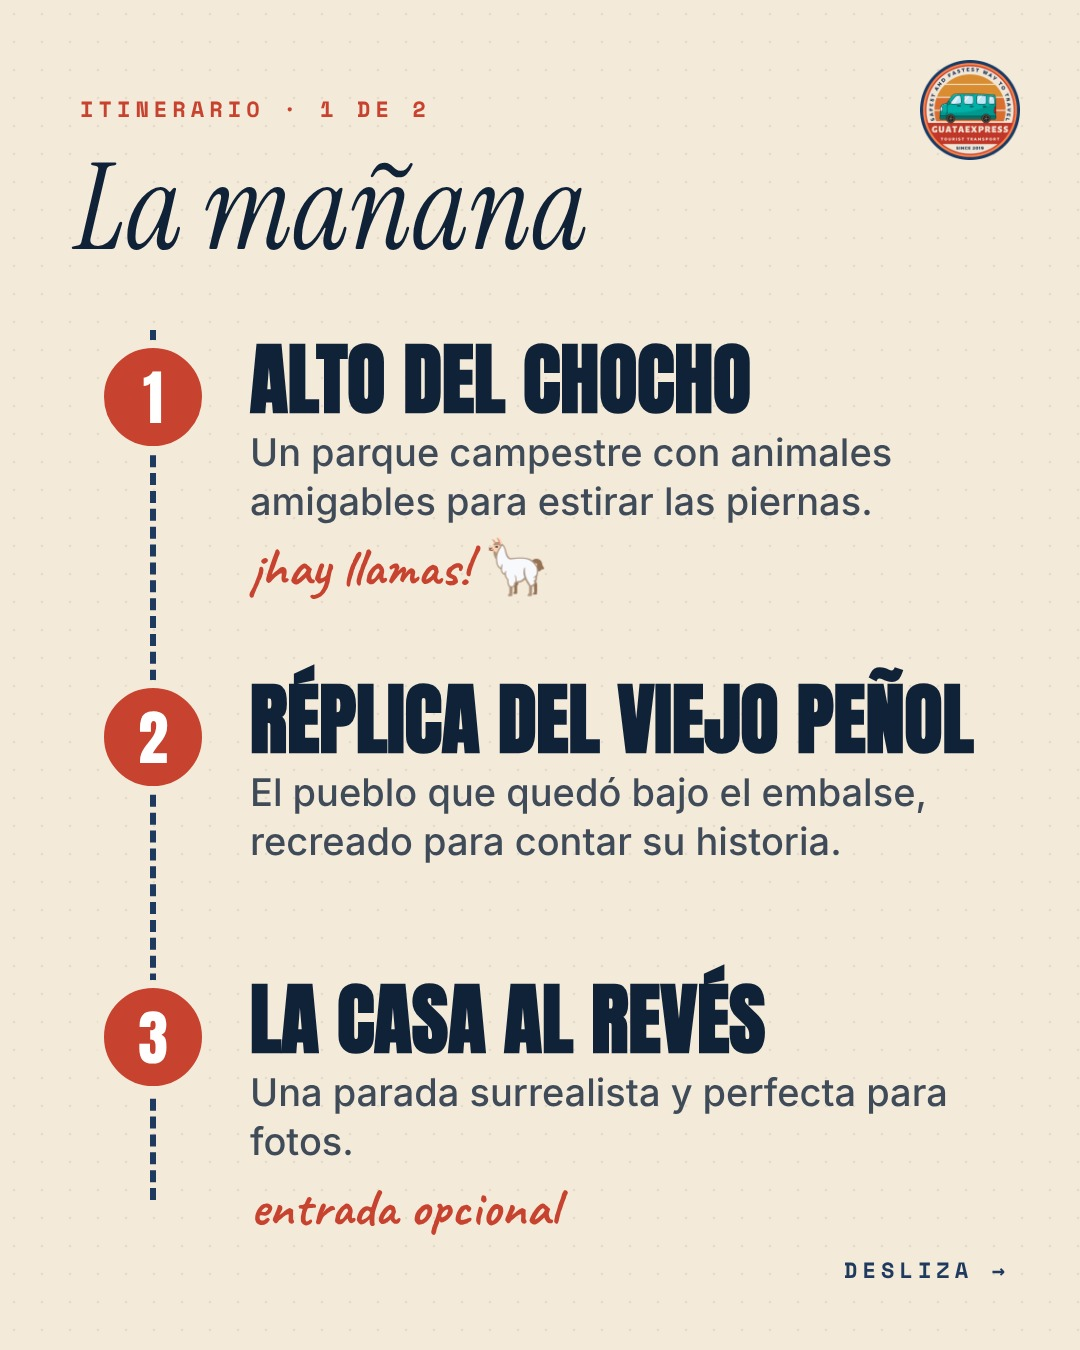
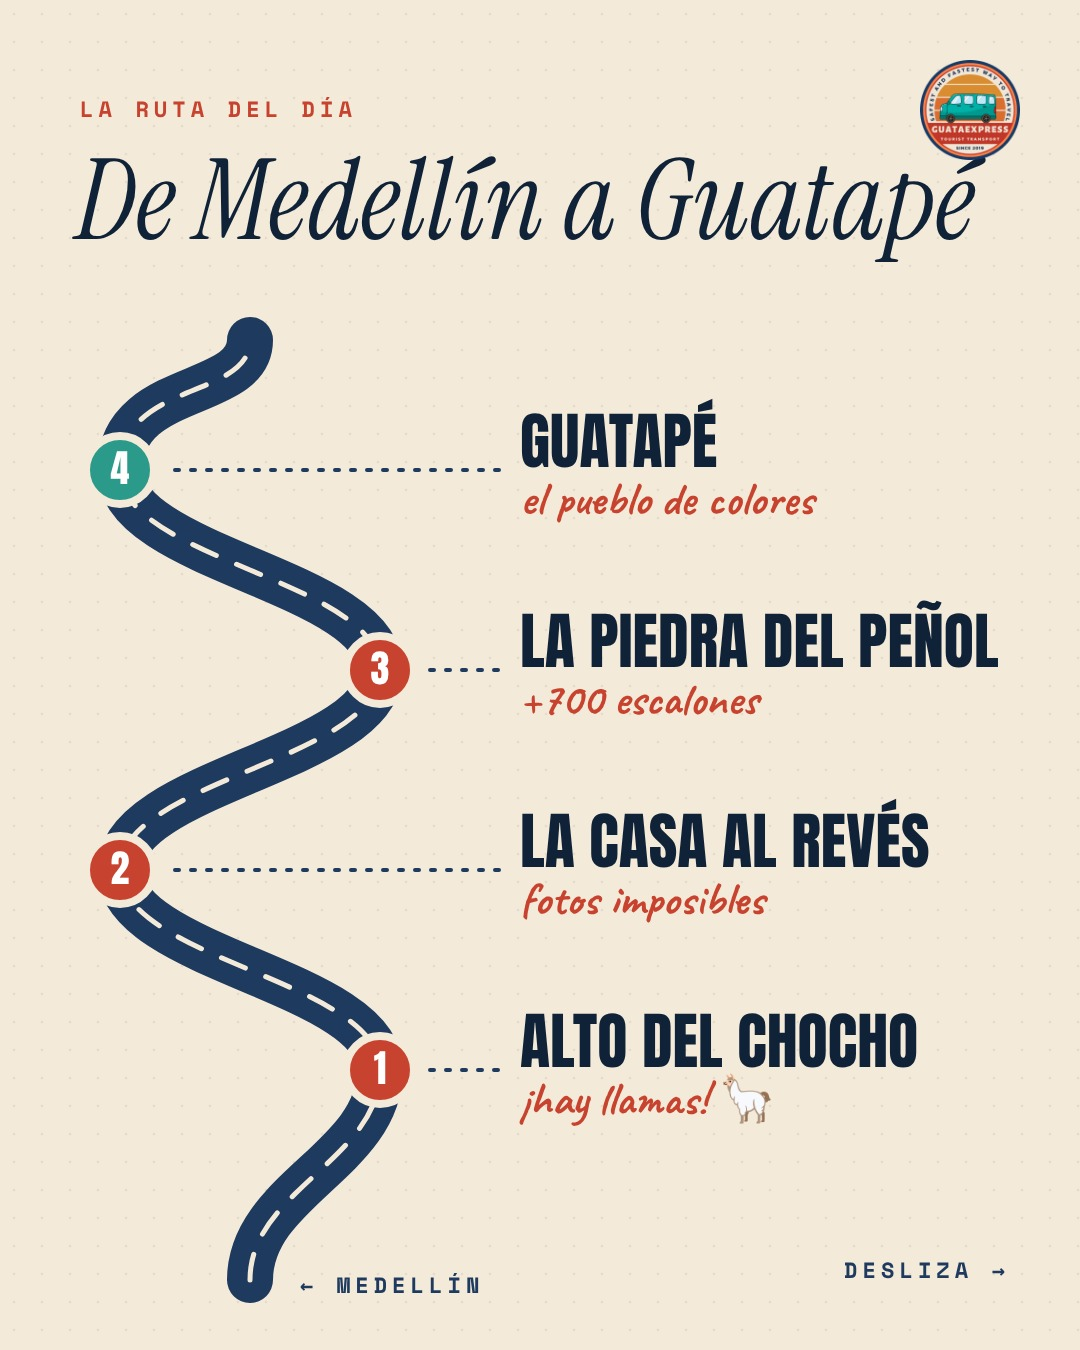
Rediseñar el post del tour privado con 4 paradas (sin la réplica del Viejo Peñol)
Claude-Session: https://claude.ai/code/session_01LZ9SaBmjmVr4tj46LR92FB

Changed region(s): [[0.0611, 0.2178, 0.9167, 0.9644], [0.0611, 0.0622, 0.9167, 0.1867], [0.275, 0.0622, 0.3667, 0.0933]]

diff --git a/semanas/2026-11-16/lunes.html b/semanas/2026-11-16/lunes.html
@@ -1,38 +1,59 @@
 <!doctype html><html><head><meta charset="utf-8"><link rel="stylesheet" href="base.css"><style>
 .paper{background:var(--cream);background-image:radial-gradient(rgba(20,36,58,.07) 1.5px,transparent 1.6px);background-size:28px 28px}
-.line{position:absolute;left:150px;top:330px;bottom:150px;border-left:6px dashed var(--navy)}
-.stop{position:absolute;left:96px;right:70px;display:flex;gap:40px;align-items:flex-start}
-.stop .n{flex:none;width:114px;height:114px;border-radius:50%;background:var(--red);color:#fff;font-family:Anton;font-size:60px;display:grid;place-items:center;border:8px solid var(--cream)}
-.stop h3{font-family:Anton;text-transform:uppercase;font-size:78px;line-height:1;color:var(--navy2)}
-.stop p{font-size:38px;line-height:1.3;color:var(--ink);opacity:.8;margin-top:10px;font-weight:500}
-.stop .h{font-family:Caveat;font-weight:700;font-size:54px;color:var(--red);margin-top:6px}
+.win{position:absolute;left:70px;right:70px;bottom:70px;height:510px;border-radius:255px 255px 30px 30px;background-size:cover;background-position:center 62%;border:10px solid var(--cream)}
+.num{font-family:Anton;font-size:190px;line-height:.82;color:var(--cream)}
+.row{display:flex;align-items:flex-end;gap:26px}
+.row span{font-family:Anton;text-transform:uppercase;font-size:96px;line-height:.9;color:var(--navy2);padding-bottom:8px}
+.pin{position:absolute;display:flex;align-items:center;gap:20px}
+.pin b{flex:none;width:92px;height:92px;border-radius:50% 50% 50% 6px;rotate:-45deg;background:var(--red);display:grid;place-items:center}
+.pin b i{rotate:45deg;font-family:Anton;font-style:normal;color:#fff;font-size:46px}
+.pin div{font-family:Anton;text-transform:uppercase;font-size:62px;line-height:1;color:var(--navy2)}
+.pin small{display:block;font-family:Caveat;font-weight:700;text-transform:none;font-size:46px;color:var(--red);margin-top:4px}
+.stamp{position:absolute;width:440px;height:440px;border-radius:50%;display:grid;place-items:center;text-align:center;padding:50px}
+.stamp::before{content:"";position:absolute;inset:14px;border-radius:50%;border:4px dashed currentColor;opacity:.75}
+.stamp .k{font-family:'Space Mono';font-weight:700;font-size:20px;letter-spacing:4px}
+.stamp h3{font-family:Anton;text-transform:uppercase;font-size:60px;line-height:.95;margin:10px 0}
+.stamp p{font-size:27px;line-height:1.25;font-weight:600}
 </style></head><body>
-<section class="s" id="s1"><div class="bg" style="background-image:url(../../fotos-nuevas/casa-al-reves-clientes.jpg);background-position:center 80%"></div>
-<div class="abs" style="inset:0;background:linear-gradient(180deg,rgba(15,34,56,.82) 0%,rgba(15,34,56,.25) 38%,rgba(15,34,56,0) 55%,rgba(15,34,56,.55) 100%)"></div>
+<section class="s" id="s1" style="background:var(--orange)">
 <img class="logo" src="../../logo/logo-circular.png" style="top:60px;right:60px">
-<div class="abs mono" style="top:92px;left:70px;color:var(--sun)">Tour privado · desde Medellín</div>
-<div class="abs ant" style="top:150px;left:66px;color:#fff;font-size:190px">Un día.<br><span style="color:var(--sun)">5 paradas.</span></div>
-<div class="abs hand" style="left:70px;bottom:110px;color:#fff;font-size:70px;rotate:-4deg;text-shadow:0 2px 14px #0008">sí, la casa está al revés</div>
-<div class="swipe mono" style="color:#fff">Desliza →</div><div class="zocalo"><i style="background:#c8432f"></i><i style="background:#e4844a"></i><i style="background:#f2b541"></i><i style="background:#2b9a8a"></i><i style="background:#1e3a5f"></i><i style="background:#c8432f"></i><i style="background:#e4844a"></i><i style="background:#f2b541"></i><i style="background:#2b9a8a"></i></div></section>
+<div class="abs mono" style="top:86px;left:70px;color:var(--navy2)">Tour privado · desde Medellín</div>
+<div class="abs" style="top:140px;left:66px">
+<div class="row"><div class="num">4</div><span>paradas.</span></div>
+<div class="row" style="margin-top:6px"><div class="num">1</div><span>día.</span></div>
+<div class="row" style="margin-top:6px"><div class="num">0</div><span>prisas.</span></div></div>
+<div class="win" style="background-image:url(../../fotos-nuevas/letras-guatape-penol.jpg)"></div>
+<div class="swipe mono" style="top:690px;bottom:auto;right:70px;color:var(--navy2)">Desliza →</div></section>
 <section class="s paper" id="s2"><img class="logo" src="../../logo/logo-circular.png" style="top:60px;right:60px">
-<div class="abs mono" style="top:92px;left:80px;color:var(--red)">Itinerario · 1 de 2</div>
-<div class="abs ser" style="top:130px;left:76px;font-size:120px;color:var(--navy2)">La mañana</div><div class="line"></div>
-<div class="stop" style="top:340px"><div class="n">1</div><div><h3>Alto del Chocho</h3><p>Un parque campestre con animales amigables para estirar las piernas.</p><div class="h">¡hay llamas! 🦙</div></div></div>
-<div class="stop" style="top:680px"><div class="n">2</div><div><h3>Réplica del Viejo Peñol</h3><p>El pueblo que quedó bajo el embalse, recreado para contar su historia.</p></div></div>
-<div class="stop" style="top:980px"><div class="n">3</div><div><h3>La Casa al Revés</h3><p>Una parada surrealista y perfecta para fotos.</p><div class="h">entrada opcional</div></div></div>
+<div class="abs mono" style="top:92px;left:80px;color:var(--red)">La ruta del día</div>
+<div class="abs ser" style="top:128px;left:76px;font-size:112px;color:var(--navy2)">De Medellín a Guatapé</div>
+<svg class="abs" style="inset:0" width="1080" height="1350" viewBox="0 0 1080 1350">
+<path d="M250 1280 C 250 1190, 380 1160, 380 1070 S 120 960, 120 870 S 380 760, 380 670 S 120 560, 120 470 S 250 400, 250 340" fill="none" stroke="#1e3a5f" stroke-width="46" stroke-linecap="round"/>
+<path d="M250 1280 C 250 1190, 380 1160, 380 1070 S 120 960, 120 870 S 380 760, 380 670 S 120 560, 120 470 S 250 400, 250 340" fill="none" stroke="#f4ead9" stroke-width="5" stroke-dasharray="26 22" stroke-linecap="round"/>
+<g stroke="#1e3a5f" stroke-width="4" stroke-dasharray="4 12" stroke-linecap="round"><path d="M430 1070 H500"/><path d="M175 870 H500"/><path d="M430 670 H500"/><path d="M175 470 H500"/></g>
+<g fill="#c8432f" stroke="#f4ead9" stroke-width="8"><circle cx="380" cy="1070" r="34"/><circle cx="120" cy="870" r="34"/><circle cx="380" cy="670" r="34"/><circle cx="120" cy="470" r="34" fill="#2b9a8a"/></g>
+<g fill="#fff" font-family="Anton" font-size="38" text-anchor="middle"><text x="380" y="1084">1</text><text x="120" y="884">2</text><text x="380" y="684">3</text><text x="120" y="484">4</text></g>
+</svg>
+<div class="abs mono" style="left:300px;top:1268px;color:var(--navy)">← Medellín</div>
+<div class="pin" style="left:520px;top:1010px"><div>Alto del Chocho<small>¡hay llamas! 🦙</small></div></div>
+<div class="pin" style="left:520px;top:810px"><div>La Casa al Revés<small>fotos imposibles</small></div></div>
+<div class="pin" style="left:520px;top:610px"><div>La Piedra del Peñol<small>+700 escalones</small></div></div>
+<div class="pin" style="left:520px;top:410px"><div>Guatapé<small>el pueblo de colores</small></div></div>
 <div class="swipe mono" style="color:var(--navy)">Desliza →</div></section>
 <section class="s paper" id="s3"><img class="logo" src="../../logo/logo-circular.png" style="top:60px;right:60px">
-<div class="abs mono" style="top:92px;left:80px;color:var(--red)">Itinerario · 2 de 2</div>
-<div class="abs ser" style="top:130px;left:76px;font-size:120px;color:var(--navy2)">La tarde</div><div class="line" style="bottom:330px"></div>
-<div class="stop" style="top:340px"><div class="n">4</div><div><h3>La Piedra del Peñol</h3><p>Más de 700 escalones hasta una de las mejores vistas de Colombia.</p><div class="h">entrada opcional</div></div></div>
-<div class="stop" style="top:720px"><div class="n">5</div><div><h3>Guatapé</h3><p>Tiempo libre en el pueblo más colorido: zócalos, artesanías y almuerzo junto al lago.</p></div></div>
-<div class="abs" style="left:80px;right:80px;bottom:110px;background:var(--navy);color:#fff;border-radius:28px;padding:34px 40px;font-size:34px;font-weight:600;line-height:1.3">⏰ Tú eliges la hora de salida y de regreso. Sin prisas y sin desconocidos.</div>
-<div class="swipe mono" style="color:var(--navy);bottom:50px">Desliza →</div></section>
-<section class="s" id="s4" style="background:var(--navy2);color:#fff"><div class="bg" style="background-image:url(../../fotos-nuevas/letras-guatape-penol.jpg);background-position:center 65%;bottom:auto;height:640px"></div>
-<div class="abs" style="left:0;right:0;top:340px;height:300px;background:linear-gradient(180deg,rgba(15,34,56,0),var(--navy2))"></div>
+<div class="abs mono" style="top:92px;left:80px;color:var(--red)">Sellos del viaje</div>
+<div class="abs ser" style="top:128px;left:76px;font-size:112px;color:var(--navy2)">Qué vas a vivir</div>
+<div class="stamp" style="left:70px;top:300px;color:var(--red);rotate:-6deg"><div><div class="k">PARADA 01</div><h3>Alto del Chocho</h3><p>Un parque campestre con animales amigables.</p></div></div>
+<div class="stamp" style="left:570px;top:340px;color:var(--teal);rotate:5deg"><div><div class="k">PARADA 02</div><h3>La Casa al Revés</h3><p>Surrealista y perfecta para fotos. Entrada opcional.</p></div></div>
+<div class="stamp" style="left:90px;top:790px;color:var(--navy);rotate:4deg"><div><div class="k">PARADA 03</div><h3>La Piedra del Peñol</h3><p>Una de las mejores vistas de Colombia. Entrada opcional.</p></div></div>
+<div class="stamp" style="left:560px;top:830px;color:#b9651f;rotate:-5deg"><div><div class="k">PARADA 04</div><h3>Guatapé</h3><p>Tiempo libre: zócalos, artesanías y almuerzo junto al lago.</p></div></div>
+<div class="swipe mono" style="color:var(--navy);bottom:40px">Desliza →</div></section>
+<section class="s" id="s4" style="background:var(--navy2);color:#fff"><div class="bg" style="background-image:url(../../fotos-nuevas/casa-al-reves-clientes.jpg);background-position:center 72%;bottom:auto;height:590px"></div>
+<div class="abs" style="left:0;right:0;top:330px;height:262px;background:linear-gradient(180deg,rgba(15,34,56,0),var(--navy2))"></div>
 <img class="logo" src="../../logo/logo-circular.png" style="top:60px;right:60px">
-<div class="abs" style="left:80px;right:80px;top:650px"><div class="mono" style="color:var(--sun)">100% privado · puerta a puerta</div>
-<div class="ant" style="font-size:132px;margin-top:16px">Guatapé,<br><span style="color:var(--sun)">a tu manera.</span></div>
-<div style="display:flex;flex-wrap:wrap;gap:14px;margin-top:36px;font-size:30px;font-weight:600"><span style="border:2px solid #fff5;border-radius:999px;padding:12px 24px">SUV privada</span><span style="border:2px solid #fff5;border-radius:999px;padding:12px 24px">Conductor bilingüe</span><span style="border:2px solid #fff5;border-radius:999px;padding:12px 24px">Snacks</span><span style="border:2px solid #fff5;border-radius:999px;padding:12px 24px">Seguro de viaje</span></div>
-<div class="wa" style="margin-top:44px"><svg viewBox="0 0 24 24"><path d="M12 2a10 10 0 00-8.6 15.1L2 22l5-1.3A10 10 0 1012 2zm0 18.2a8.2 8.2 0 01-4.2-1.2l-.3-.2-3 .8.8-2.9-.2-.3A8.2 8.2 0 1112 20.2zm4.5-6.1c-.2-.1-1.5-.7-1.7-.8s-.4-.1-.6.1-.7.8-.8 1-.3.2-.5.1a6.7 6.7 0 01-3.3-2.9c-.3-.4.3-.4.7-1.3.1-.2 0-.3 0-.4l-.8-1.8c-.2-.5-.4-.4-.6-.4h-.5a1 1 0 00-.7.3 3 3 0 00-.9 2.2 5.2 5.2 0 001.1 2.7 11.8 11.8 0 004.5 4c1.7.7 2.3.8 3.2.6a2.7 2.7 0 001.8-1.2 2.2 2.2 0 00.1-1.2c-.1-.1-.2-.2-.5-.3z"/></svg> Cotiza tu tour</div></div><div class="zocalo"><i style="background:#c8432f"></i><i style="background:#e4844a"></i><i style="background:#f2b541"></i><i style="background:#2b9a8a"></i><i style="background:#1e3a5f"></i><i style="background:#c8432f"></i><i style="background:#e4844a"></i><i style="background:#f2b541"></i><i style="background:#2b9a8a"></i></div></section>
+<div class="abs" style="left:80px;right:80px;top:600px"><div class="mono" style="color:var(--sun)">100% privado · tú eliges el horario</div>
+<div class="ant" style="font-size:124px;margin-top:18px">Guatapé,<br><span style="color:var(--sun)">a tu manera.</span></div>
+<div style="display:flex;flex-wrap:wrap;gap:14px;margin-top:34px;font-size:30px;font-weight:600"><span style="border:2px solid #fff5;border-radius:999px;padding:12px 24px">SUV privada</span><span style="border:2px solid #fff5;border-radius:999px;padding:12px 24px">Conductor bilingüe</span><span style="border:2px solid #fff5;border-radius:999px;padding:12px 24px">Snacks</span><span style="border:2px solid #fff5;border-radius:999px;padding:12px 24px">Seguro de viaje</span></div>
+<div class="wa" style="margin-top:40px"><svg viewBox="0 0 24 24"><path d="M12 2a10 10 0 00-8.6 15.1L2 22l5-1.3A10 10 0 1012 2zm0 18.2a8.2 8.2 0 01-4.2-1.2l-.3-.2-3 .8.8-2.9-.2-.3A8.2 8.2 0 1112 20.2zm4.5-6.1c-.2-.1-1.5-.7-1.7-.8s-.4-.1-.6.1-.7.8-.8 1-.3.2-.5.1a6.7 6.7 0 01-3.3-2.9c-.3-.4.3-.4.7-1.3.1-.2 0-.3 0-.4l-.8-1.8c-.2-.5-.4-.4-.6-.4h-.5a1 1 0 00-.7.3 3 3 0 00-.9 2.2 5.2 5.2 0 001.1 2.7 11.8 11.8 0 004.5 4c1.7.7 2.3.8 3.2.6a2.7 2.7 0 001.8-1.2 2.2 2.2 0 00.1-1.2c-.1-.1-.2-.2-.5-.3z"/></svg> Cotiza tu tour</div></div>
+<div class="zocalo"><i style="background:#c8432f"></i><i style="background:#e4844a"></i><i style="background:#f2b541"></i><i style="background:#2b9a8a"></i><i style="background:#1e3a5f"></i><i style="background:#c8432f"></i><i style="background:#e4844a"></i><i style="background:#f2b541"></i><i style="background:#2b9a8a"></i></div></section>
 </body></html>

diff --git a/semanas/2026-11-16/lunes-opcion1.html b/semanas/2026-11-16/lunes-opcion1.html
@@ -1,0 +1,38 @@
+<!doctype html><html><head><meta charset="utf-8"><link rel="stylesheet" href="base.css"><style>
+.paper{background:var(--cream);background-image:radial-gradient(rgba(20,36,58,.07) 1.5px,transparent 1.6px);background-size:28px 28px}
+.line{position:absolute;left:150px;top:330px;bottom:150px;border-left:6px dashed var(--navy)}
+.stop{position:absolute;left:96px;right:70px;display:flex;gap:40px;align-items:flex-start}
+.stop .n{flex:none;width:114px;height:114px;border-radius:50%;background:var(--red);color:#fff;font-family:Anton;font-size:60px;display:grid;place-items:center;border:8px solid var(--cream)}
+.stop h3{font-family:Anton;text-transform:uppercase;font-size:78px;line-height:1;color:var(--navy2)}
+.stop p{font-size:38px;line-height:1.3;color:var(--ink);opacity:.8;margin-top:10px;font-weight:500}
+.stop .h{font-family:Caveat;font-weight:700;font-size:54px;color:var(--red);margin-top:6px}
+</style></head><body>
+<section class="s" id="s1"><div class="bg" style="background-image:url(../../fotos-nuevas/casa-al-reves-clientes.jpg);background-position:center 80%"></div>
+<div class="abs" style="inset:0;background:linear-gradient(180deg,rgba(15,34,56,.82) 0%,rgba(15,34,56,.25) 38%,rgba(15,34,56,0) 55%,rgba(15,34,56,.55) 100%)"></div>
+<img class="logo" src="../../logo/logo-circular.png" style="top:60px;right:60px">
+<div class="abs mono" style="top:92px;left:70px;color:var(--sun)">Tour privado · desde Medellín</div>
+<div class="abs ant" style="top:150px;left:66px;color:#fff;font-size:190px">Un día.<br><span style="color:var(--sun)">5 paradas.</span></div>
+<div class="abs hand" style="left:70px;bottom:110px;color:#fff;font-size:70px;rotate:-4deg;text-shadow:0 2px 14px #0008">sí, la casa está al revés</div>
+<div class="swipe mono" style="color:#fff">Desliza →</div><div class="zocalo"><i style="background:#c8432f"></i><i style="background:#e4844a"></i><i style="background:#f2b541"></i><i style="background:#2b9a8a"></i><i style="background:#1e3a5f"></i><i style="background:#c8432f"></i><i style="background:#e4844a"></i><i style="background:#f2b541"></i><i style="background:#2b9a8a"></i></div></section>
+<section class="s paper" id="s2"><img class="logo" src="../../logo/logo-circular.png" style="top:60px;right:60px">
+<div class="abs mono" style="top:92px;left:80px;color:var(--red)">Itinerario · 1 de 2</div>
+<div class="abs ser" style="top:130px;left:76px;font-size:120px;color:var(--navy2)">La mañana</div><div class="line"></div>
+<div class="stop" style="top:340px"><div class="n">1</div><div><h3>Alto del Chocho</h3><p>Un parque campestre con animales amigables para estirar las piernas.</p><div class="h">¡hay llamas! 🦙</div></div></div>
+<div class="stop" style="top:680px"><div class="n">2</div><div><h3>Réplica del Viejo Peñol</h3><p>El pueblo que quedó bajo el embalse, recreado para contar su historia.</p></div></div>
+<div class="stop" style="top:980px"><div class="n">3</div><div><h3>La Casa al Revés</h3><p>Una parada surrealista y perfecta para fotos.</p><div class="h">entrada opcional</div></div></div>
+<div class="swipe mono" style="color:var(--navy)">Desliza →</div></section>
+<section class="s paper" id="s3"><img class="logo" src="../../logo/logo-circular.png" style="top:60px;right:60px">
+<div class="abs mono" style="top:92px;left:80px;color:var(--red)">Itinerario · 2 de 2</div>
+<div class="abs ser" style="top:130px;left:76px;font-size:120px;color:var(--navy2)">La tarde</div><div class="line" style="bottom:330px"></div>
+<div class="stop" style="top:340px"><div class="n">4</div><div><h3>La Piedra del Peñol</h3><p>Más de 700 escalones hasta una de las mejores vistas de Colombia.</p><div class="h">entrada opcional</div></div></div>
+<div class="stop" style="top:720px"><div class="n">5</div><div><h3>Guatapé</h3><p>Tiempo libre en el pueblo más colorido: zócalos, artesanías y almuerzo junto al lago.</p></div></div>
+<div class="abs" style="left:80px;right:80px;bottom:110px;background:var(--navy);color:#fff;border-radius:28px;padding:34px 40px;font-size:34px;font-weight:600;line-height:1.3">⏰ Tú eliges la hora de salida y de regreso. Sin prisas y sin desconocidos.</div>
+<div class="swipe mono" style="color:var(--navy);bottom:50px">Desliza →</div></section>
+<section class="s" id="s4" style="background:var(--navy2);color:#fff"><div class="bg" style="background-image:url(../../fotos-nuevas/letras-guatape-penol.jpg);background-position:center 65%;bottom:auto;height:640px"></div>
+<div class="abs" style="left:0;right:0;top:340px;height:300px;background:linear-gradient(180deg,rgba(15,34,56,0),var(--navy2))"></div>
+<img class="logo" src="../../logo/logo-circular.png" style="top:60px;right:60px">
+<div class="abs" style="left:80px;right:80px;top:650px"><div class="mono" style="color:var(--sun)">100% privado · puerta a puerta</div>
+<div class="ant" style="font-size:132px;margin-top:16px">Guatapé,<br><span style="color:var(--sun)">a tu manera.</span></div>
+<div style="display:flex;flex-wrap:wrap;gap:14px;margin-top:36px;font-size:30px;font-weight:600"><span style="border:2px solid #fff5;border-radius:999px;padding:12px 24px">SUV privada</span><span style="border:2px solid #fff5;border-radius:999px;padding:12px 24px">Conductor bilingüe</span><span style="border:2px solid #fff5;border-radius:999px;padding:12px 24px">Snacks</span><span style="border:2px solid #fff5;border-radius:999px;padding:12px 24px">Seguro de viaje</span></div>
+<div class="wa" style="margin-top:44px"><svg viewBox="0 0 24 24"><path d="M12 2a10 10 0 00-8.6 15.1L2 22l5-1.3A10 10 0 1012 2zm0 18.2a8.2 8.2 0 01-4.2-1.2l-.3-.2-3 .8.8-2.9-.2-.3A8.2 8.2 0 1112 20.2zm4.5-6.1c-.2-.1-1.5-.7-1.7-.8s-.4-.1-.6.1-.7.8-.8 1-.3.2-.5.1a6.7 6.7 0 01-3.3-2.9c-.3-.4.3-.4.7-1.3.1-.2 0-.3 0-.4l-.8-1.8c-.2-.5-.4-.4-.6-.4h-.5a1 1 0 00-.7.3 3 3 0 00-.9 2.2 5.2 5.2 0 001.1 2.7 11.8 11.8 0 004.5 4c1.7.7 2.3.8 3.2.6a2.7 2.7 0 001.8-1.2 2.2 2.2 0 00.1-1.2c-.1-.1-.2-.2-.5-.3z"/></svg> Cotiza tu tour</div></div><div class="zocalo"><i style="background:#c8432f"></i><i style="background:#e4844a"></i><i style="background:#f2b541"></i><i style="background:#2b9a8a"></i><i style="background:#1e3a5f"></i><i style="background:#c8432f"></i><i style="background:#e4844a"></i><i style="background:#f2b541"></i><i style="background:#2b9a8a"></i></div></section>
+</body></html>

diff --git a/marca.md b/marca.md
@@ -19,7 +19,7 @@ Fuente de verdad para crear posts. Si un dato no está aquí o en la web, NO inv
 | Tour privado Guatapé día completo desde Medellín | 900.000 COP (grupo pequeño — ⚠ la web dice "hasta 7" y también "hasta 6": confirmar) |
 | San Rafael / Reserva natural | Cotizar por WhatsApp |
 
-Tour privado: recogida en hotel/Airbnb, horario flexible. Paradas: Alto del Chocho, réplica del Viejo Peñol, Casa al Revés (entrada no incluida), Piedra del Peñol (entrada no incluida), tiempo libre en Guatapé. Comidas no incluidas.
+Tour privado: recogida en hotel/Airbnb, horario flexible. Paradas (4, actualizado por el dueño el 2026-11-16): Alto del Chocho, Casa al Revés (entrada no incluida), Piedra del Peñol (entrada no incluida), tiempo libre en Guatapé. YA NO se para en la réplica del Viejo Peñol (la web aún la menciona: no usarla). Comidas no incluidas.
 
 ## Contacto
 - WhatsApp: +57 321 729 3431 · Email: guataexpress@gmail.com · Web: www.guataexpress.com

diff --git a/plan-contenido.md b/plan-contenido.md
@@ -15,7 +15,7 @@ Rotar pilares para no repetir. Marcar con ✅ + fecha + enlace cuando se publiqu
 |---|---|---|---|---|
 | 1 | Servicio | Aeropuerto MDE ⇄ Guatapé sin estrés | Carrusel | ✅ 2026-11-08 https://www.instagram.com/p/Dfd3lI6F1SJ/ |
 | 2 | Guía | Tips para subir la Piedra del Peñol (+700 escalones, a primera hora…) | Carrusel | ✅ 2026-11-13 https://www.instagram.com/p/Dfr7_NwFP_J/ |
-| 3 | Experiencias | Tour privado: las 5 paradas del día | Carrusel | 🗓 borrador 2026-11-16 |
+| 3 | Experiencias | Tour privado: las 4 paradas del día | Carrusel | 🗓 borrador 2026-11-16 |
 | 4 | Guía | Dónde comer en Guatapé (restaurantes de la guía, 10% OFF) | Carrusel | 🗓 borrador 2026-11-18 |
 | 5 | FAQ | ¿Cuánto se tarda del aeropuerto a Guatapé? ¿Y con equipaje? | Imagen | ⚠ falta dato de duración |
 | 6 | Confianza | Reseñas reales: 5.0 en 94 opiniones | Carrusel | ✅ 2026-11-09 https://www.instagram.com/p/DfhfK2amuwg/ |
